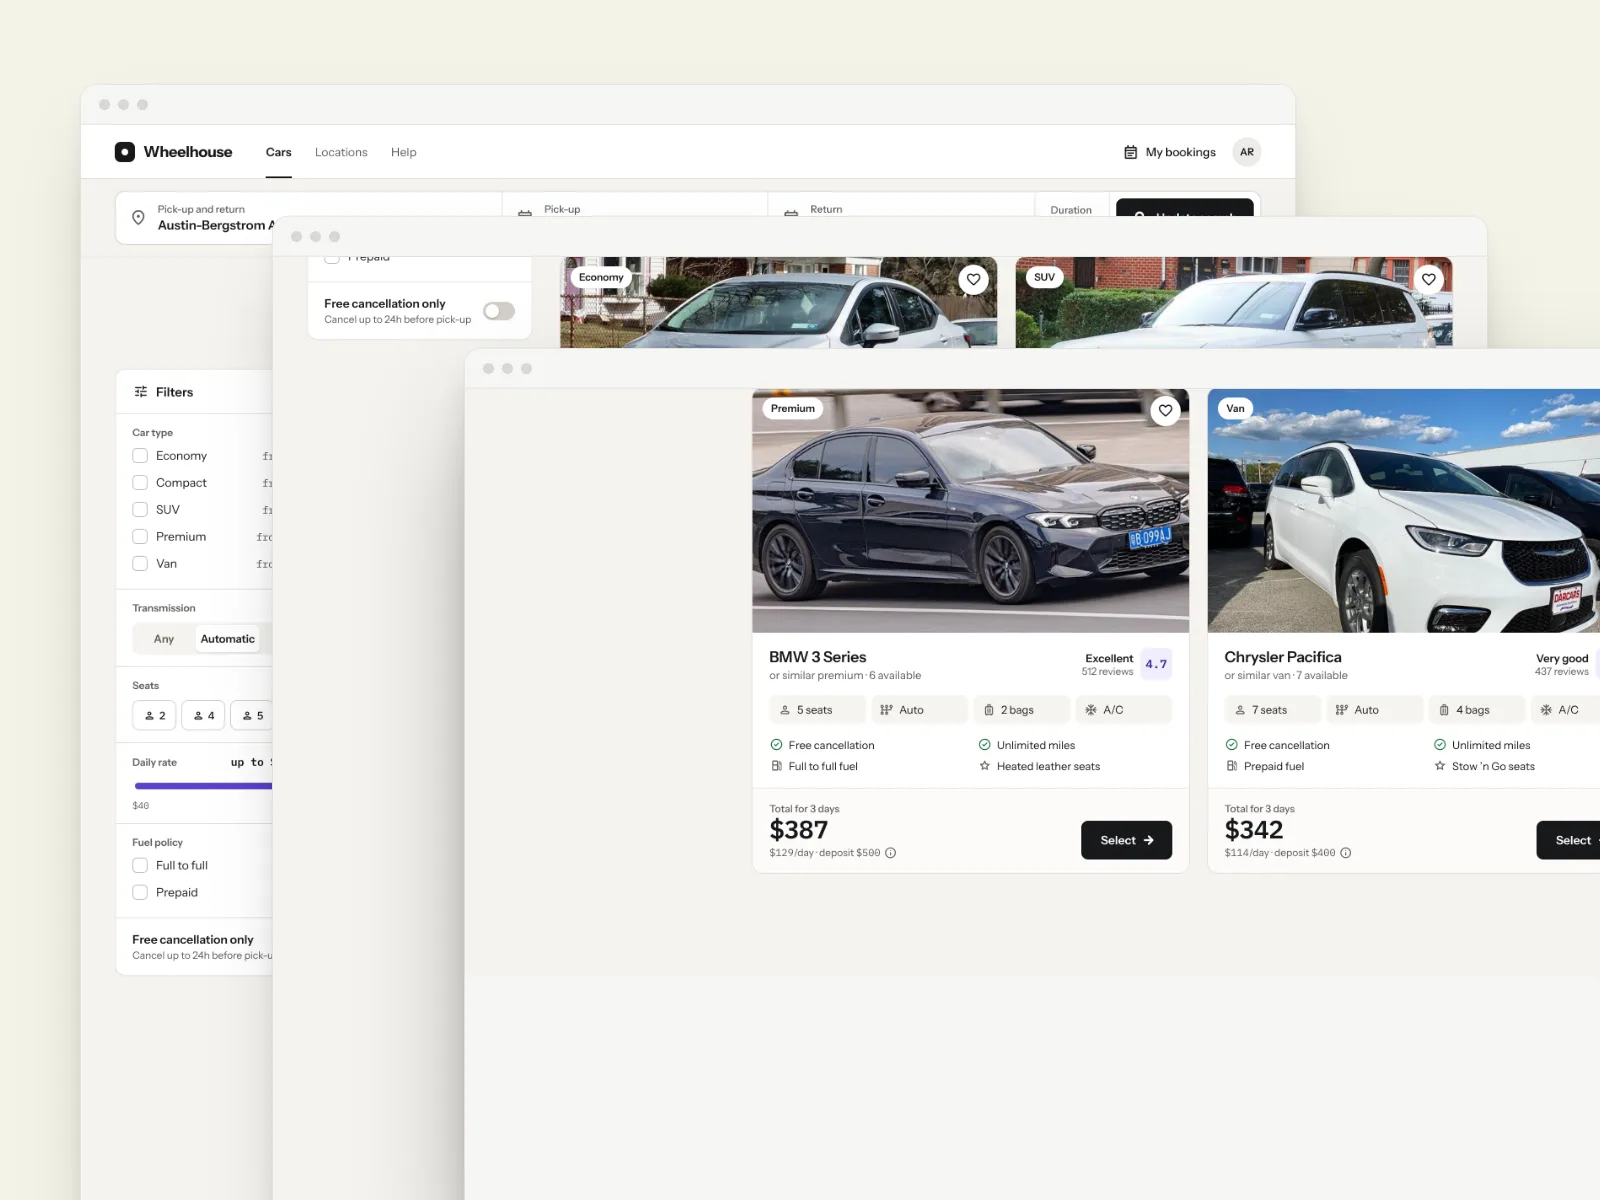
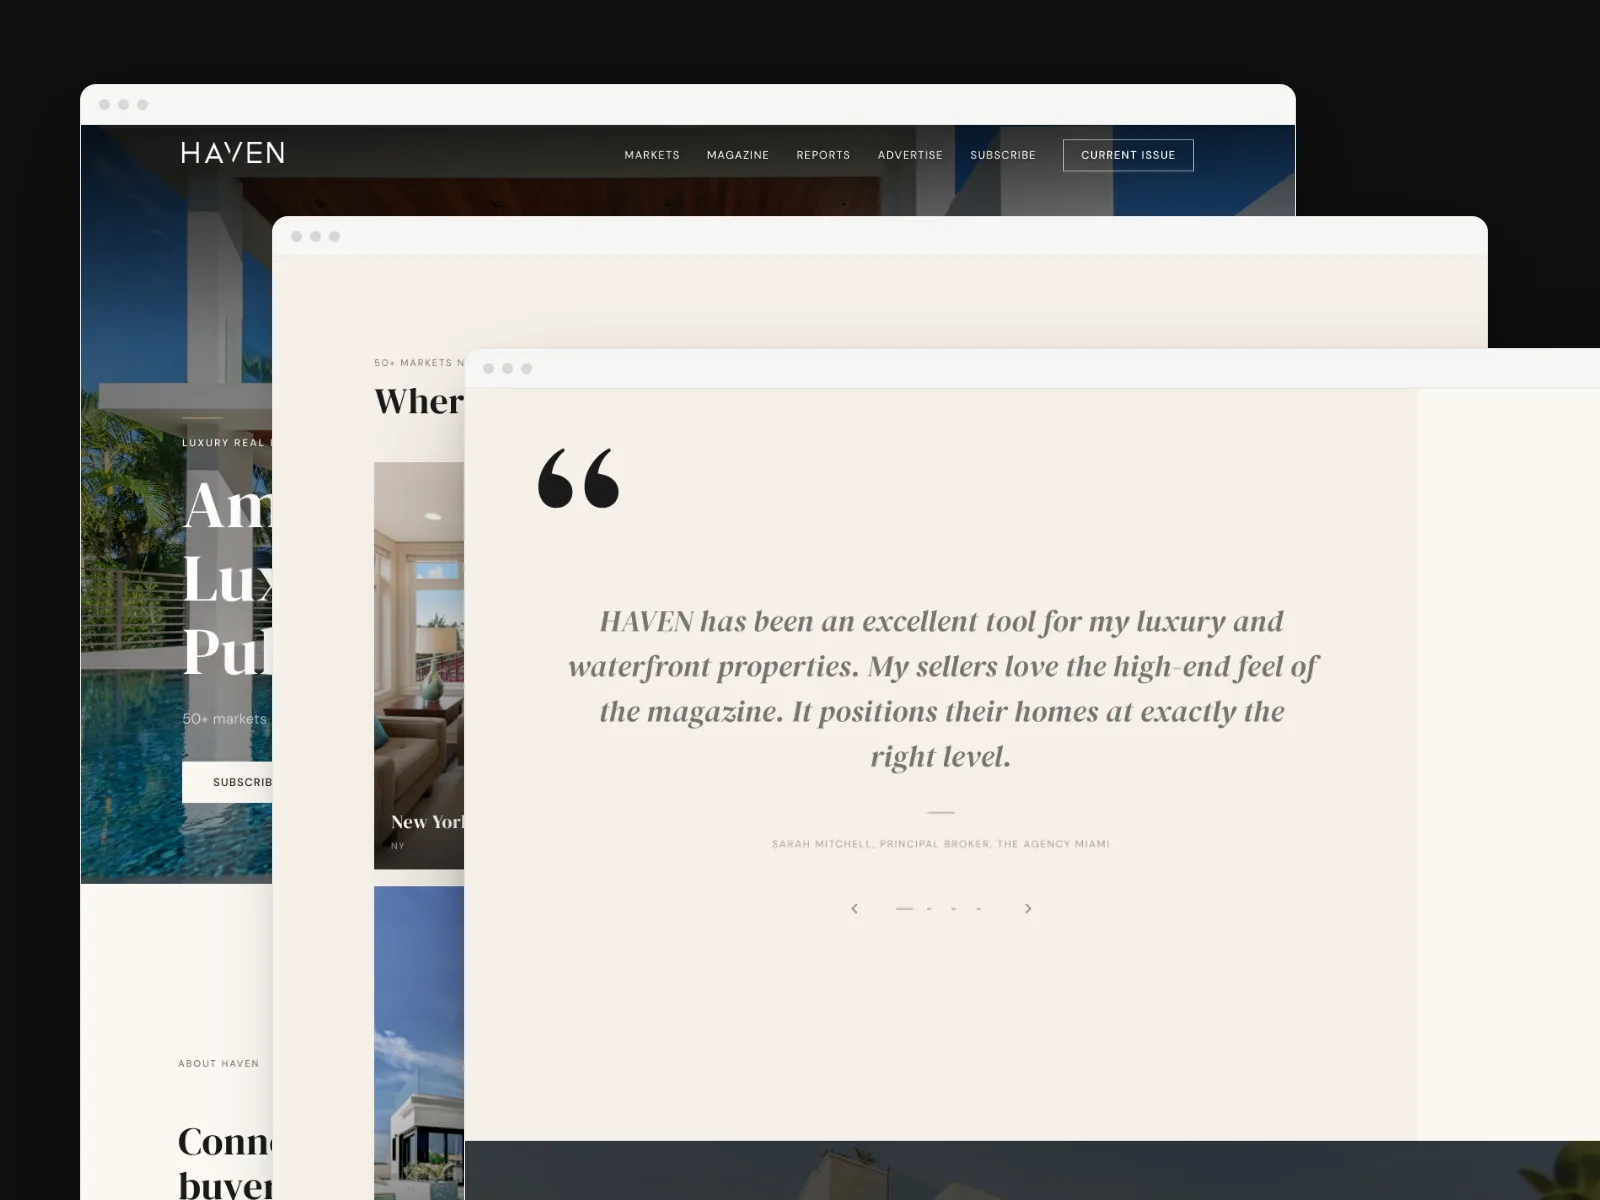
site: remove Wheelhouse covers

diff --git a/site/components/sections.tsx b/site/components/sections.tsx
@@ -180,7 +180,7 @@ const PATTERNS = [
   { id: "bento", site: "Haven", d: "Hero, phone, photos and a component on one grid" },
   { id: "floating", site: "Lune", d: "Phone and desktop as one overlapping group" },
   { id: "phone-trio", site: "Aequor", d: "Three phones, mixed models, real system UI" },
-  { id: "cascade", site: "Wheelhouse", d: "Three sections layered off the edge" },
+  { id: "cascade", site: "Haven", d: "Three sections layered off the edge" },
   { id: "overview-grid", site: "Lune", d: "The whole site as a staggered mosaic" },
   { id: "brand-split", site: "Aequor", d: "The page beside its own logo and photo" },
   { id: "editorial", site: "Haven", d: "A lead column and two sections, larger" },
